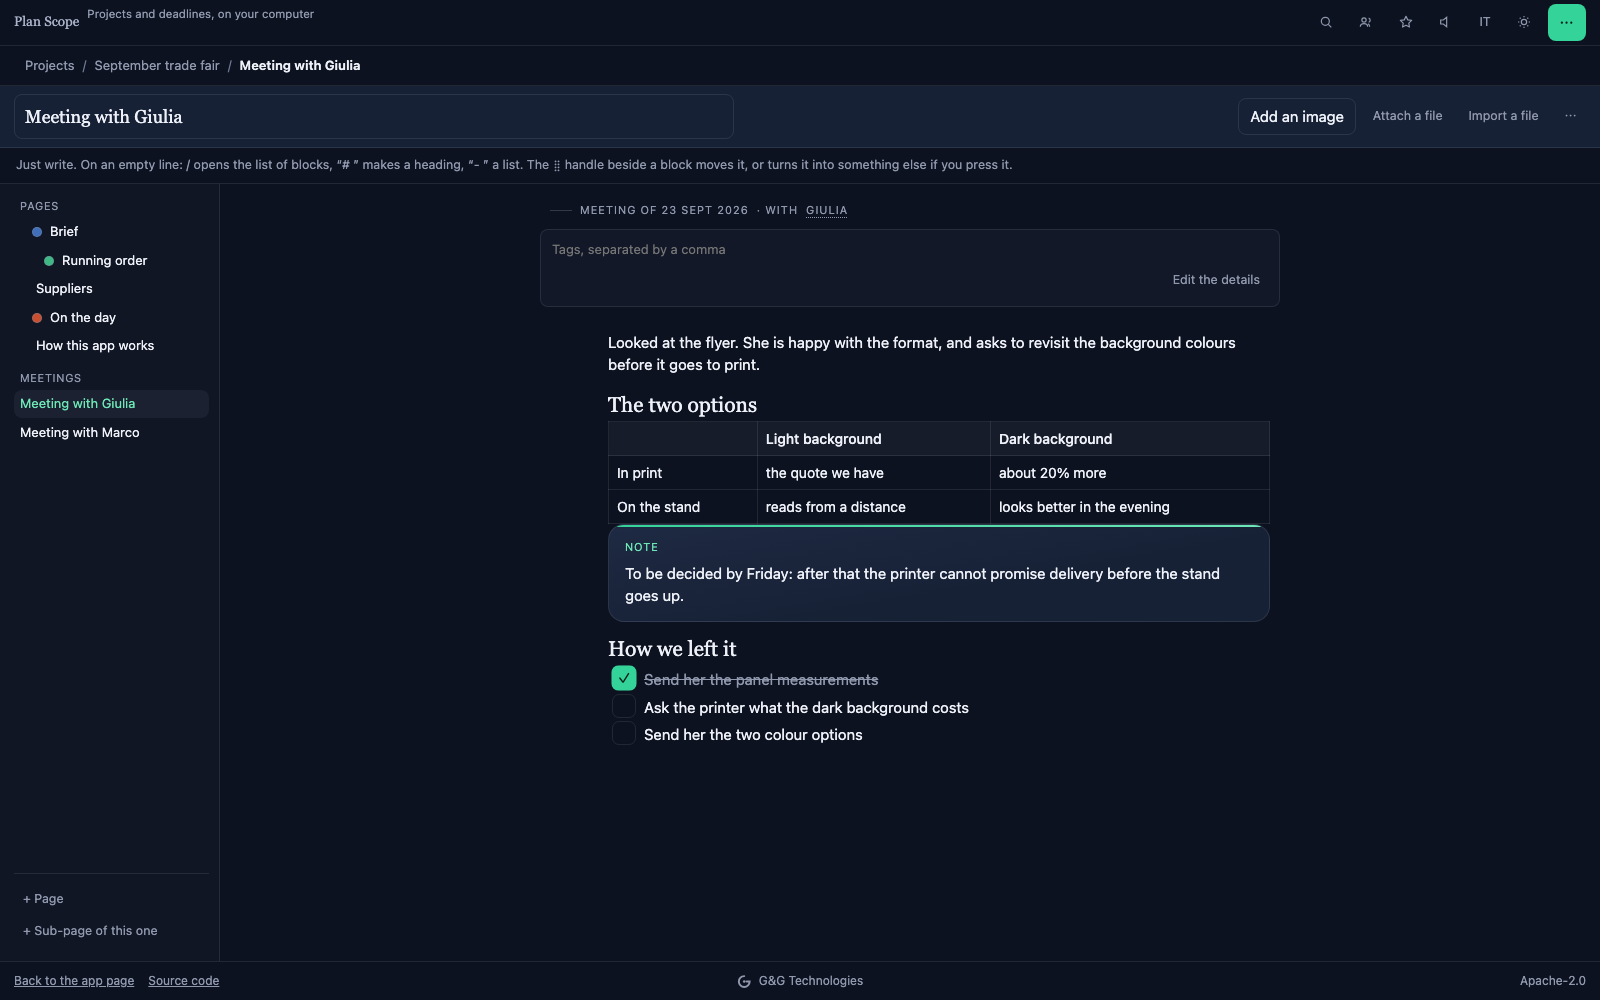
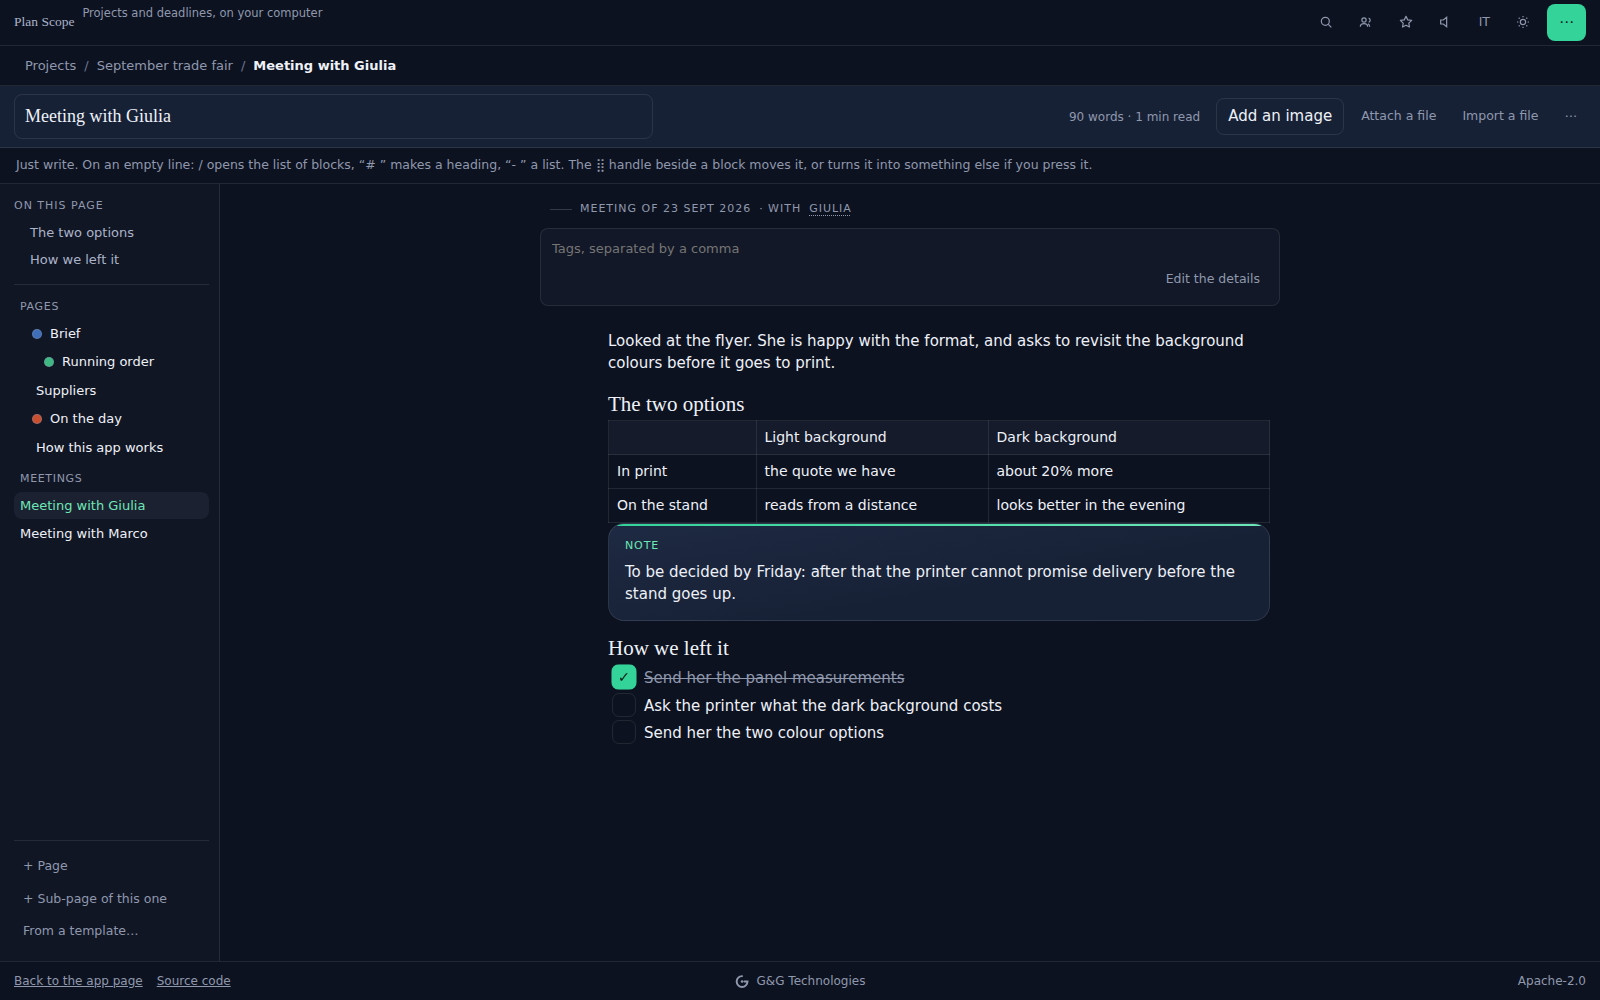
Plan Scope 4.48.1 — l'indice della pagina prende solo lo spazio che serve, e la galleria rifatta
La regola della colonna dell'albero dà a ogni `nav` il resto dell'altezza, e l'indice «In questa
pagina» se la prendeva: due titoli, e sotto un vuoto fino a metà colonna. Adesso l'indice occupa
quello che servono i suoi titoli, e oltre i due quinti della colonna scorre.

Screenshot «pagina» e «persona» della scheda rifatti nelle due lingue: mostrano l'indice, il
conteggio delle parole e l'ultimo contatto.

Claude-Session: https://claude.ai/code/session_01Dr91ciCas9dYpzJyxEQvoT

diff --git a/app/plan-scope/run/styles.css b/app/plan-scope/run/styles.css
@@ -554,10 +554,13 @@ select:hover, select:focus { border-color: var(--border-strong); }
 #showArchived.on { color: var(--accent-text); background: var(--accent-soft); }
 
 /* The outline of the page, over the tree: the headings as links, indented by level. */
-.page-outline { display: grid; gap: 2px; margin-bottom: 14px; padding-bottom: 12px; border-bottom: 1px solid var(--border); }
+.page-outline { display: grid; align-content: start; flex: none; gap: 2px; margin-bottom: 14px; padding-bottom: 12px; border-bottom: 1px solid var(--border); }
 .page-outline h3 { margin: 0 0 4px; font-size: 11px; letter-spacing: 0.09em; text-transform: uppercase;
   color: var(--faint); font-weight: 400; }
-#pageOutlineList { display: grid; gap: 1px; }
+#pageOutlineList { display: grid; align-content: start; gap: 1px; }
+/* The tree's own rule gives every nav in the column the rest of its height; the outline takes only
+   what its headings need, and scrolls past two fifths of the column. */
+.page-tree nav.page-outline { flex: none; max-height: 40%; overflow-y: auto; }
 #pageOutlineList .link { font-size: 13px; color: var(--muted); padding: 3px 6px; text-align: left;
   overflow: hidden; text-overflow: ellipsis; white-space: nowrap; }
 #pageOutlineList .link:hover { color: var(--text); background: rgba(127, 140, 170, 0.08); }

diff --git a/app/plan-scope/index.html b/app/plan-scope/index.html
@@ -52,7 +52,7 @@
     "url": "https://ggtechnologies.sm/app/plan-scope/",
     "applicationCategory": "UtilitiesApplication",
     "operatingSystem": "Any (web browser)",
-    "softwareVersion": "4.48.0",
+    "softwareVersion": "4.48.1",
     "datePublished": "2026-09-01",
     "dateModified": "2026-09-23",
     "license": "https://www.apache.org/licenses/LICENSE-2.0",
@@ -332,7 +332,7 @@
             </div>
           </div>
         </div>
-        <p class="app-meta"><span><b>Versione</b> 4.48.0</span><span><b>Aggiornata il</b> 23 settembre 2026</span><span><b>Licenza</b> Apache-2.0</span><a href="https://github.com/G-G-Technologies-Srl/g-g-technologies-srl.github.io/tree/main/app/plan-scope" rel="noopener">Codice sorgente</a></p>
+        <p class="app-meta"><span><b>Versione</b> 4.48.1</span><span><b>Aggiornata il</b> 23 settembre 2026</span><span><b>Licenza</b> Apache-2.0</span><a href="https://github.com/G-G-Technologies-Srl/g-g-technologies-srl.github.io/tree/main/app/plan-scope" rel="noopener">Codice sorgente</a></p>
       </div>
     </section>
 

diff --git a/en/app/plan-scope/index.html b/en/app/plan-scope/index.html
@@ -52,7 +52,7 @@
     "url": "https://ggtechnologies.sm/en/app/plan-scope/",
     "applicationCategory": "UtilitiesApplication",
     "operatingSystem": "Any (web browser)",
-    "softwareVersion": "4.48.0",
+    "softwareVersion": "4.48.1",
     "datePublished": "2026-09-01",
     "dateModified": "2026-09-23",
     "license": "https://www.apache.org/licenses/LICENSE-2.0",
@@ -332,7 +332,7 @@
             </div>
           </div>
         </div>
-        <p class="app-meta"><span><b>Version</b> 4.48.0</span><span><b>Updated</b> 23 September 2026</span><span><b>Licence</b> Apache-2.0</span><a href="https://github.com/G-G-Technologies-Srl/g-g-technologies-srl.github.io/tree/main/app/plan-scope" rel="noopener">Source code</a></p>
+        <p class="app-meta"><span><b>Version</b> 4.48.1</span><span><b>Updated</b> 23 September 2026</span><span><b>Licence</b> Apache-2.0</span><a href="https://github.com/G-G-Technologies-Srl/g-g-technologies-srl.github.io/tree/main/app/plan-scope" rel="noopener">Source code</a></p>
       </div>
     </section>
 

diff --git a/app/plan-scope/run/sw.js b/app/plan-scope/run/sw.js
@@ -12,7 +12,7 @@
 //    running app means changing the code while somebody has unsaved keystrokes in a page, and
 //    saving them one reload is not worth that.
 
-const VERSION = '4.48.0';
+const VERSION = '4.48.1';
 const CACHE = `plan-scope-v${VERSION}`;
 
 // La cache dei promemoria, e **l'unica che sopravvive a un aggiornamento**. Il nome non porta la
